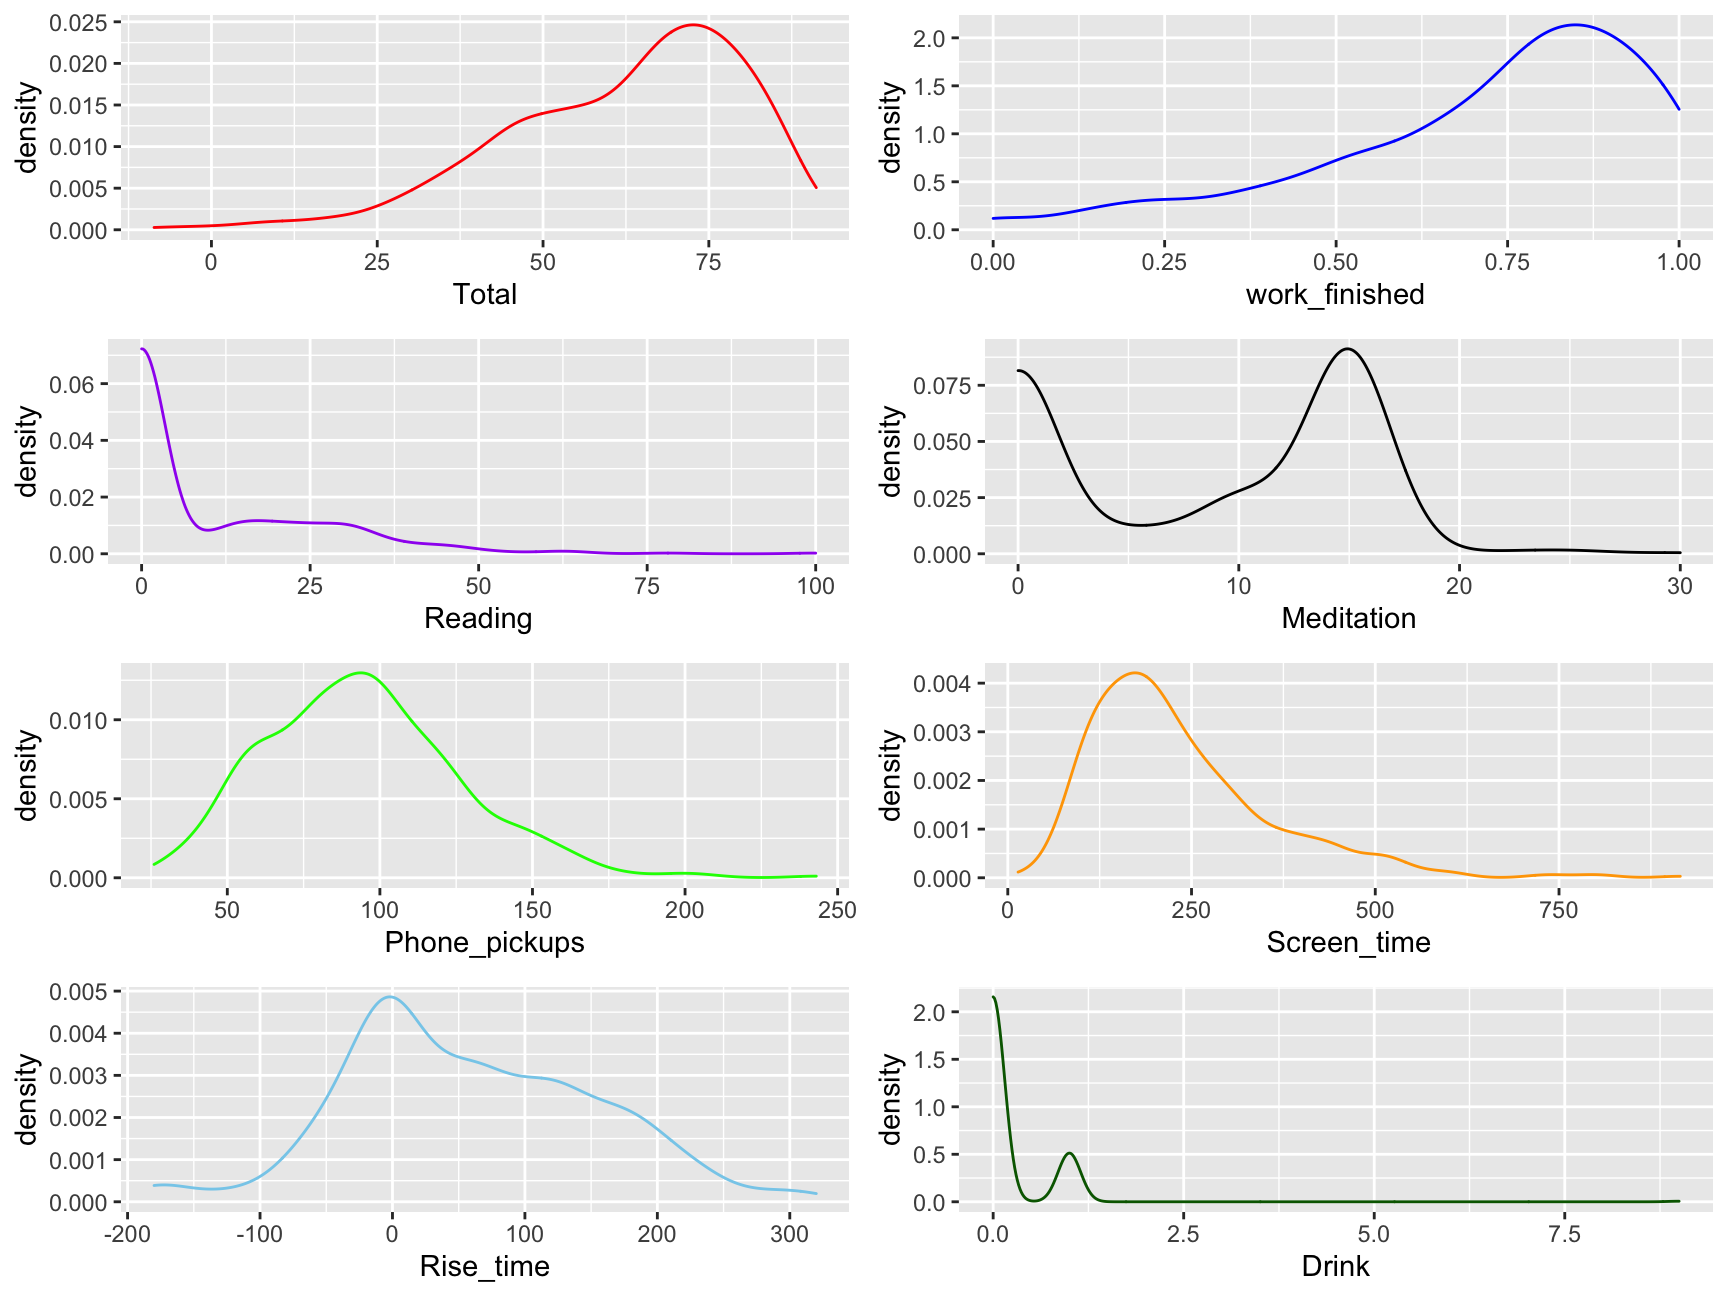
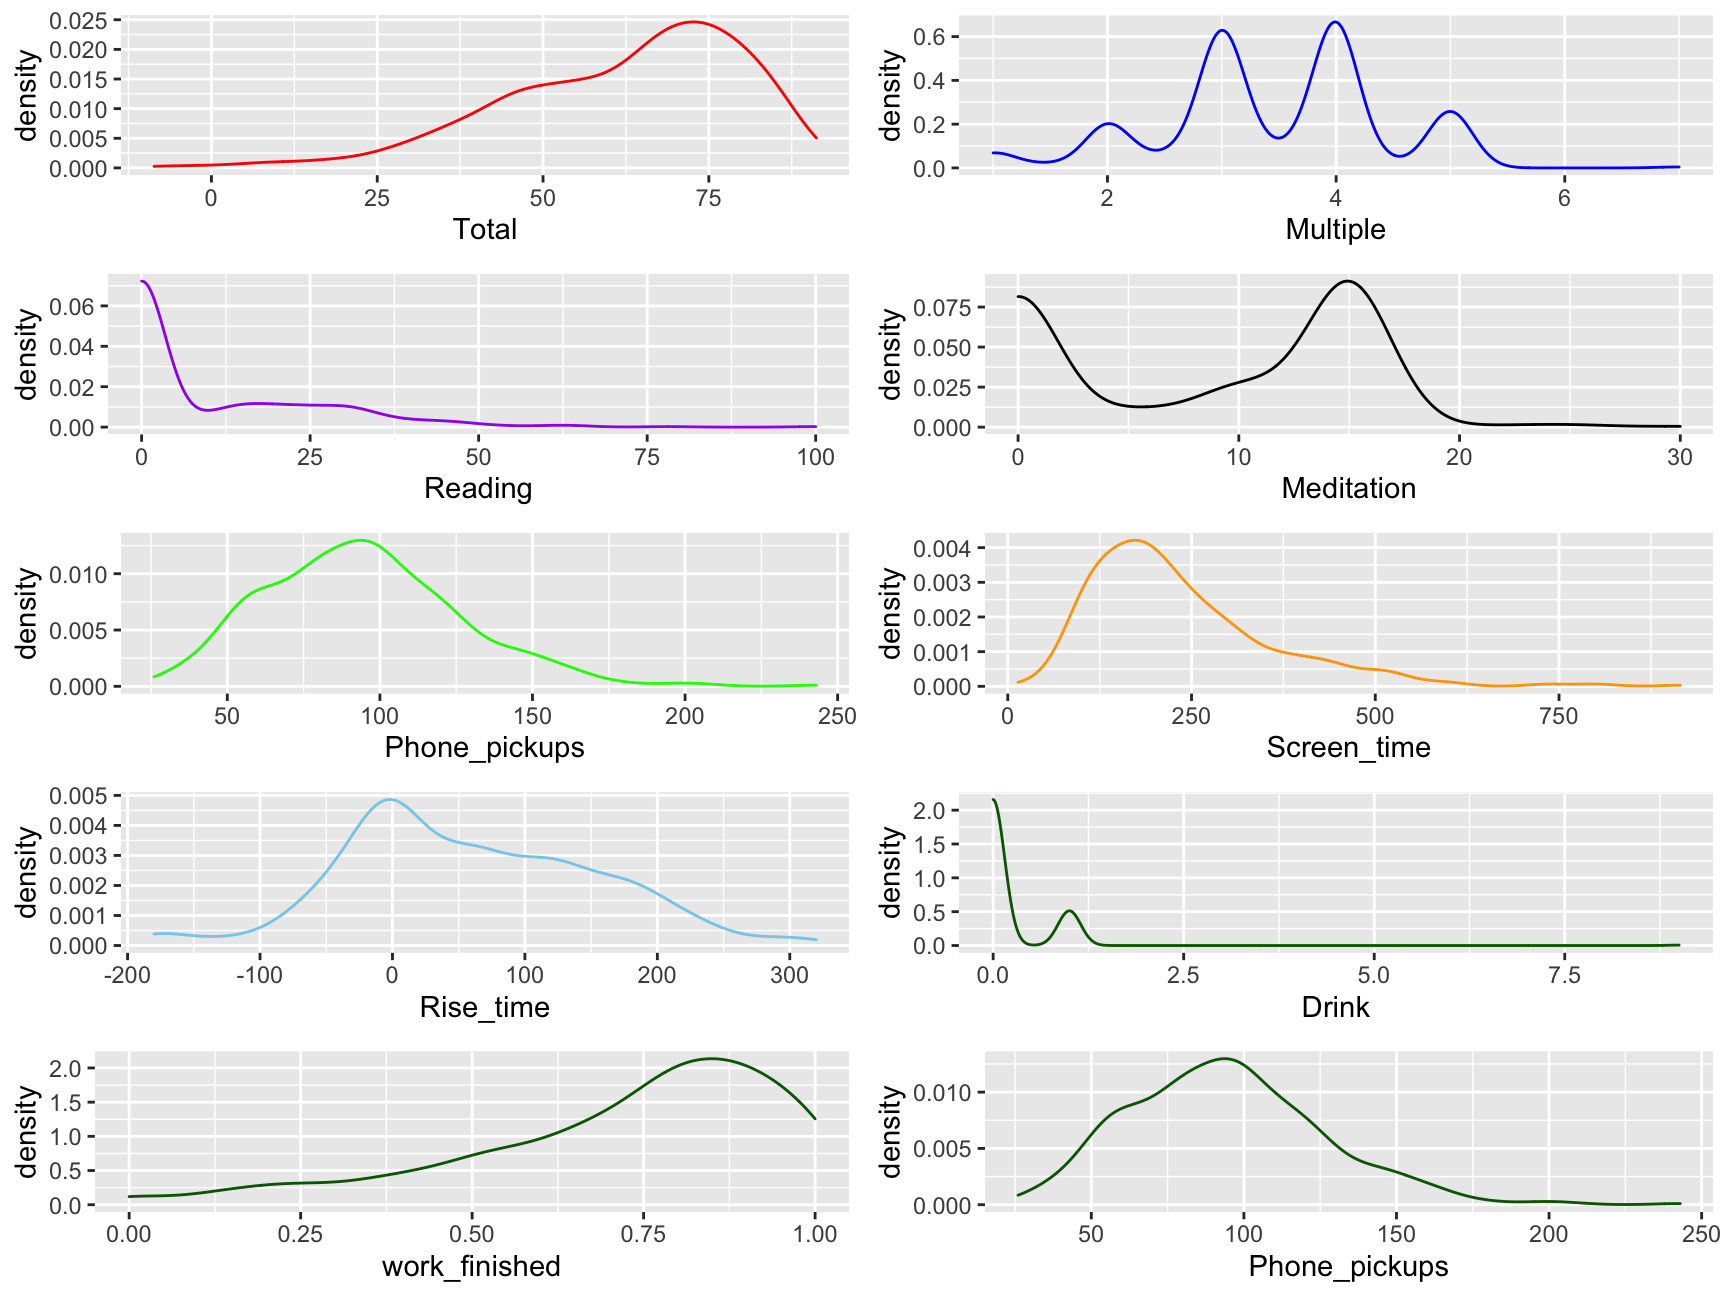
update

diff --git a/self_evaluation.html b/self_evaluation.html
@@ -362,7 +362,7 @@ multiple_dat = filter(all_dat, Productivity!=0)</code></pre>
   geom_density( aes(Total), color = &#39;red&#39;)
 
 p2 &lt;- ggplot(data = all_dat) +
-  geom_density( aes(work_finished), color = &#39;blue&#39;)
+  geom_density( aes(Multiple), color = &#39;blue&#39;)
 
 p3 &lt;- ggplot(data = all_dat, alpha=.5)+
   geom_density( aes(Reading), color = &#39;purple&#39;)
@@ -381,33 +381,41 @@ p7 &lt;- ggplot(data = all_dat, alpha=.5)+
 
 p8 &lt;- ggplot(data = all_dat, alpha=.5)+
   geom_density(aes(Drink), color = &#39;darkgreen&#39;)
+
+p9 &lt;- ggplot(data = all_dat, alpha=.5)+
+  geom_density(aes(work_finished), color = &#39;darkgreen&#39;)
+
+p10 &lt;- ggplot(data = all_dat, alpha=.5)+
+  geom_density(aes(Phone_pickups), color = &#39;darkgreen&#39;)
   
-grid.arrange(p1, p2, p3,p4,p5,p6,p7,p8, nrow = 4)</code></pre>
+grid.arrange(p1, p2, p3,p4,p5,p6,p7,p8,p9,p10, nrow = 5)</code></pre>
 <p><img src="self_evaluation_files/figure-html/unnamed-chunk-3-1.png" width="1600px" style="display: block; margin: auto;" /> <br><br />
+<br><br />
 <br></p>
 </div>
 <div id="how-do-these-variables-affect-the-outcome-of-the-day" class="section level2">
 <h2>How do these variables affect the outcome of the day?</h2>
-<p><br></p>
+<p><br><br />
+<br></p>
 <div id="find-the-relationships-between-these-variables-and-how-they-affect-my-lifestyle" class="section level3">
 <h3>Find the relationships between these variables and how they affect my lifestyle</h3>
-<p><br></p>
 <p><font size="3">We will first take a look at the characteristics of the variables by utilizing <strong>descriptive statistics</strong>.</font> <br></p>
 <ul>
 <li><font size="3">Use <strong>pairs.panels function</strong> in psych module
 <ul>
-<li>The <em>diagonal histograms</em> demonstrates the distribution of each variable</li>
-<li>The <em>bottom left triangle</em> represents a scatter plot with the best fit line</li>
-<li>The <em>top right triangle</em> represents a correlation coefficient for each pair, which ranges from -1 to 1
+<li><strong>The diagonal histograms</strong> demonstrates the distribution of each variable</li>
+<li><strong>The bottom left triangle</strong> represents a scatter plot with the best fit line</li>
+<li><strong>The top right triangle</strong> represents a correlation coefficient for each pair, which ranges from -1 to 1
 <ul>
 <li>If the coefficient is close to 1, it means that the pair holds a positive relationship and a negative relationship for -1.</li>
 </ul></li>
 <li>Correlation Coefficient Formula:</font> <span class="math display">\[r = \dfrac{\sum(x_i-\bar{x})(y_i-\bar{y})}{\sqrt{\sum(x_i-\bar{x})^2\sum(y_i-\bar{y})^2}}\]</span></li>
 </ul></li>
 </ul>
+<p><br></p>
 <pre class="r"><code>correlation_plot &lt;- all_dat %&gt;%
-  select(c(Screen_time, Meditation, Multiple, Rise_time, work_finished, 
-           Reading,Total))
+  select(c(Screen_time, Meditation, Multiple, Rise_time, 
+           Reading,Phone_pickups, work_finished, Total))
 
 pairs.panels(correlation_plot, lm = TRUE)</code></pre>
 <p><img src="self_evaluation_files/figure-html/unnamed-chunk-4-1.png" width="1600px" style="display: block; margin: auto;" /></p>
